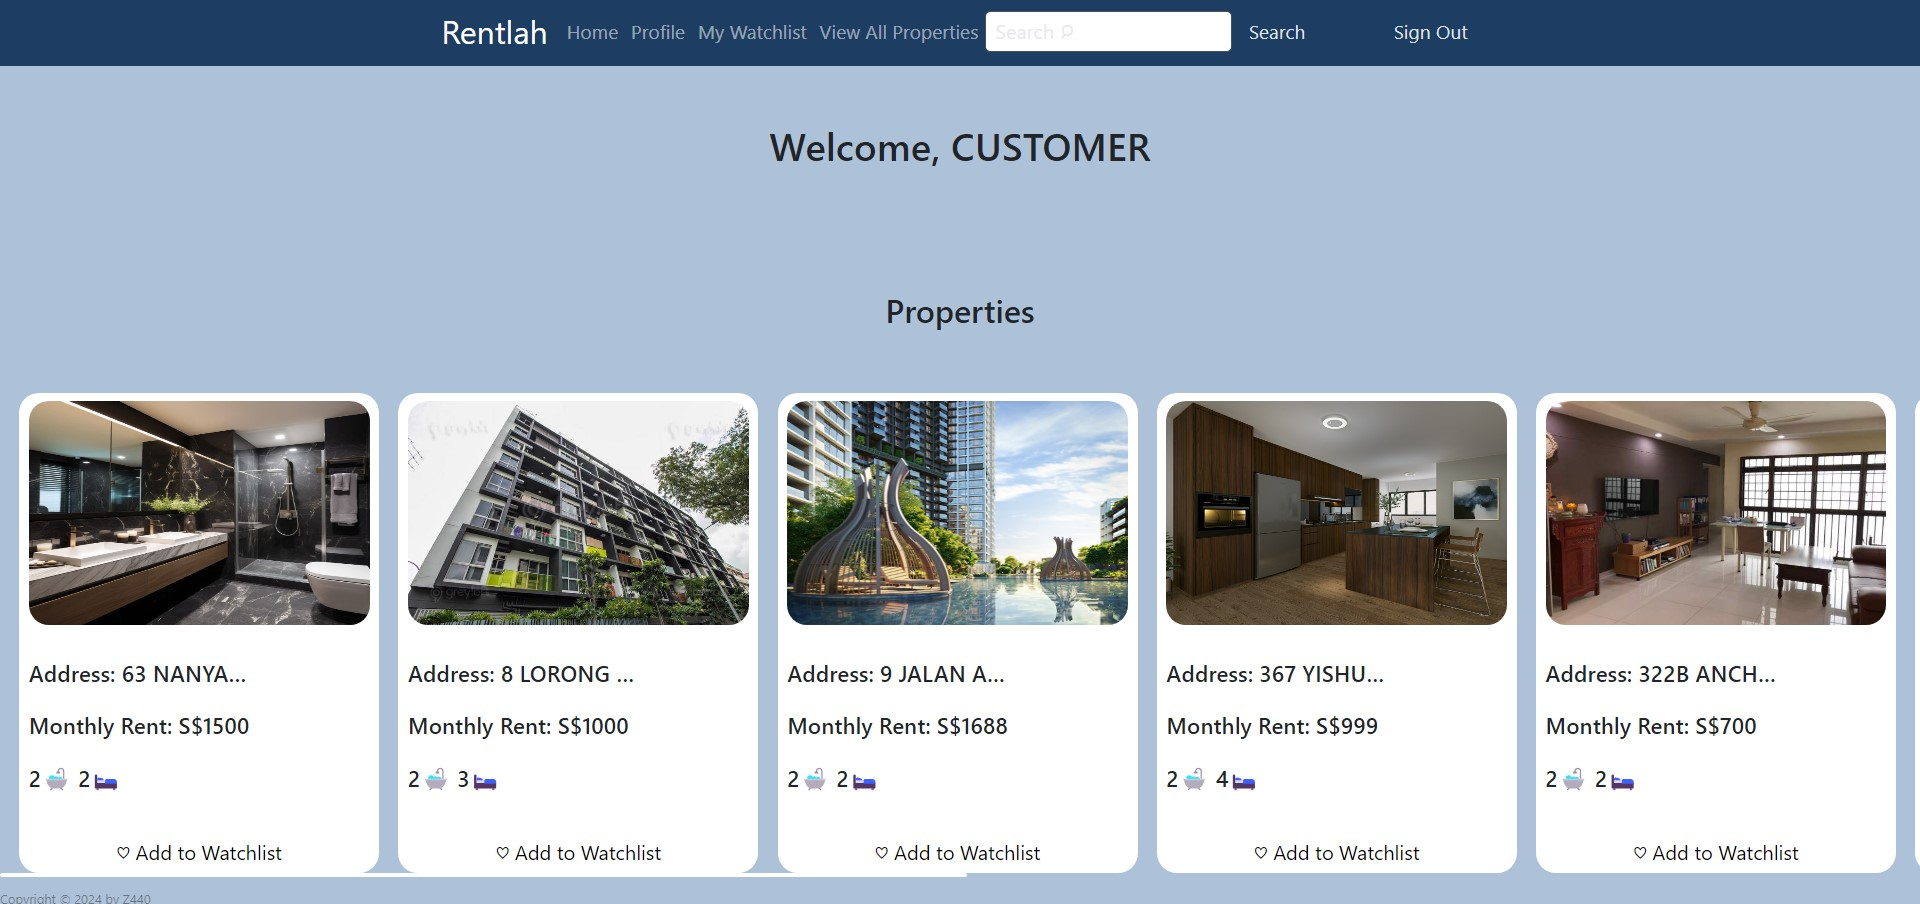
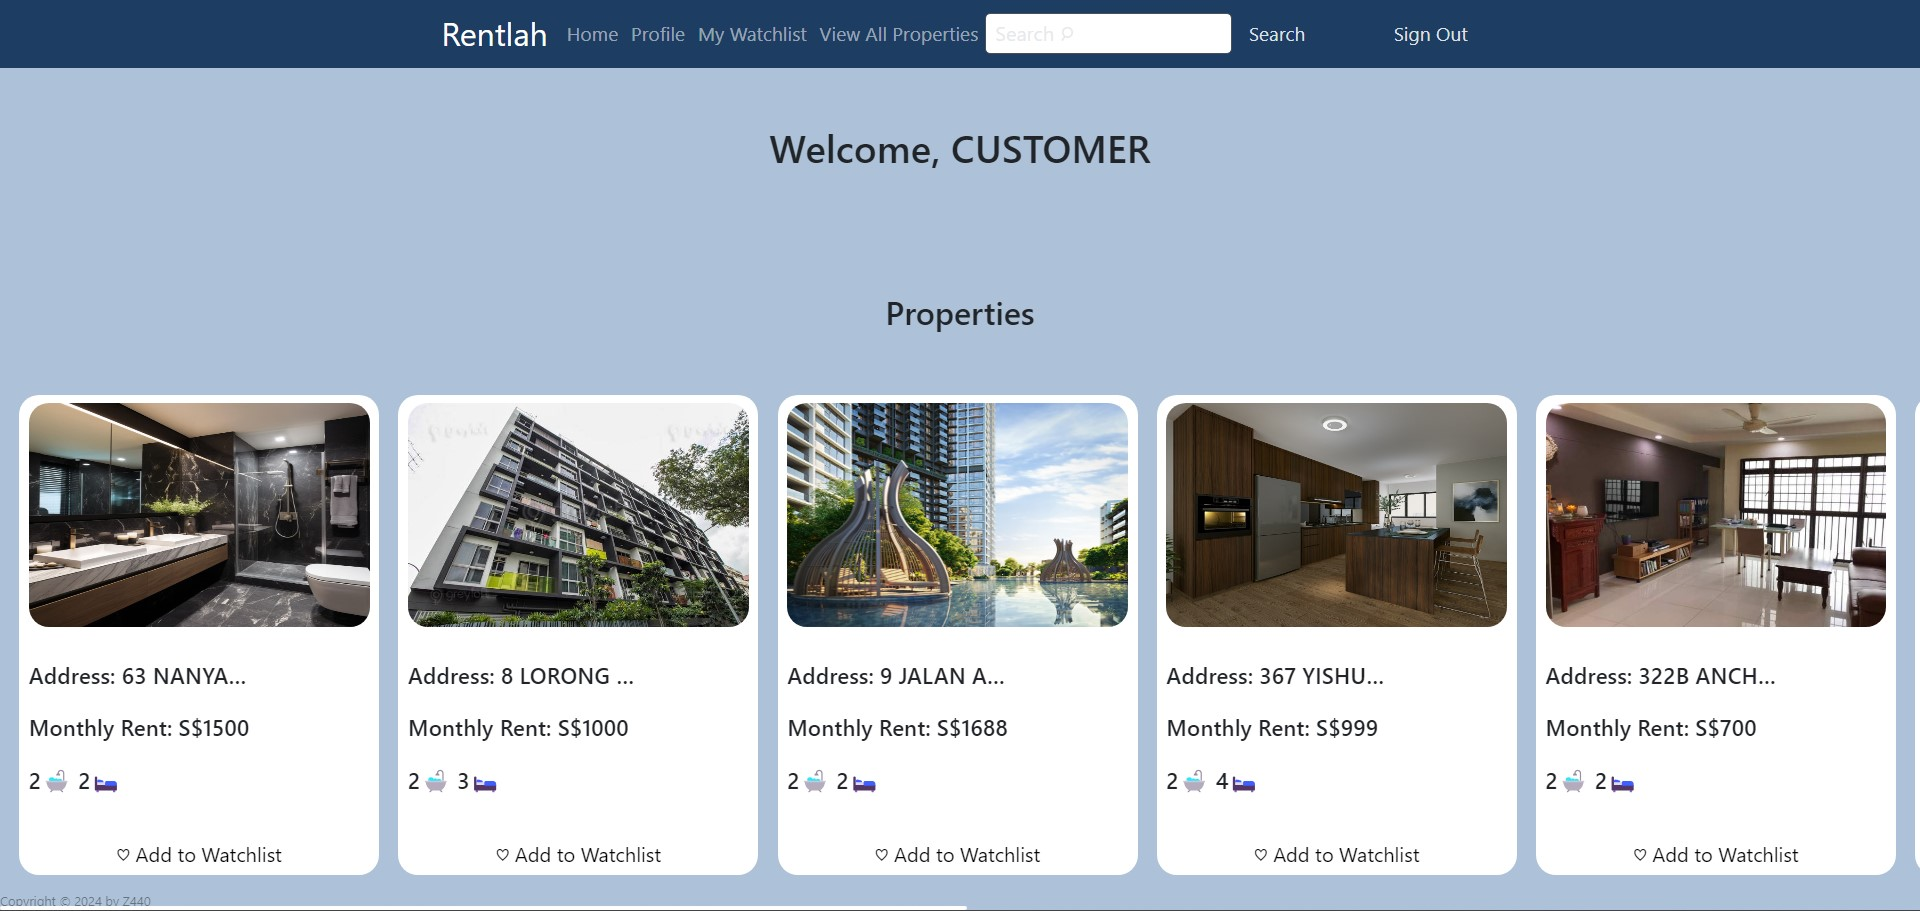
refinement

diff --git a/frontend/src/pages/Home.jsx b/frontend/src/pages/Home.jsx
@@ -1,6 +1,4 @@
 import NavBar from "../components/NavBar";
-
-import Triangles from "../components/Triangles";
 import axios from "axios";
 import { useEffect, useState } from "react";
 import "../styles/Home.css";
@@ -75,12 +73,10 @@ import {
 
   
   return (
-    <>
+    <div style={{ display: "flex", flexDirection: "column", minHeight: "100vh" }}>
       <header>
         <NavBar userType={userType} />
       </header>
-
-      {/* <Triangles /> */}
       {success && (
             <Alert  variant={notIn ? "success" : 'primary'} >
               {notIn ? "Property added to Watchlist." : "Property already in your watchlist."}
@@ -96,7 +92,7 @@ import {
       </div>
 
       <div
-        className="col overflow-auto"
+        className="col overflow-auto vh-100"
         id="Listingsbar"
         style={{ marginTop: "3%", width: "100%" }}
       >
@@ -167,7 +163,7 @@ import {
           <div className="col" style={{marginLeft:"-1%"}}/>
         </div>
       </div>
-    </>
+    </div>
   );
 }
 export default Home;
